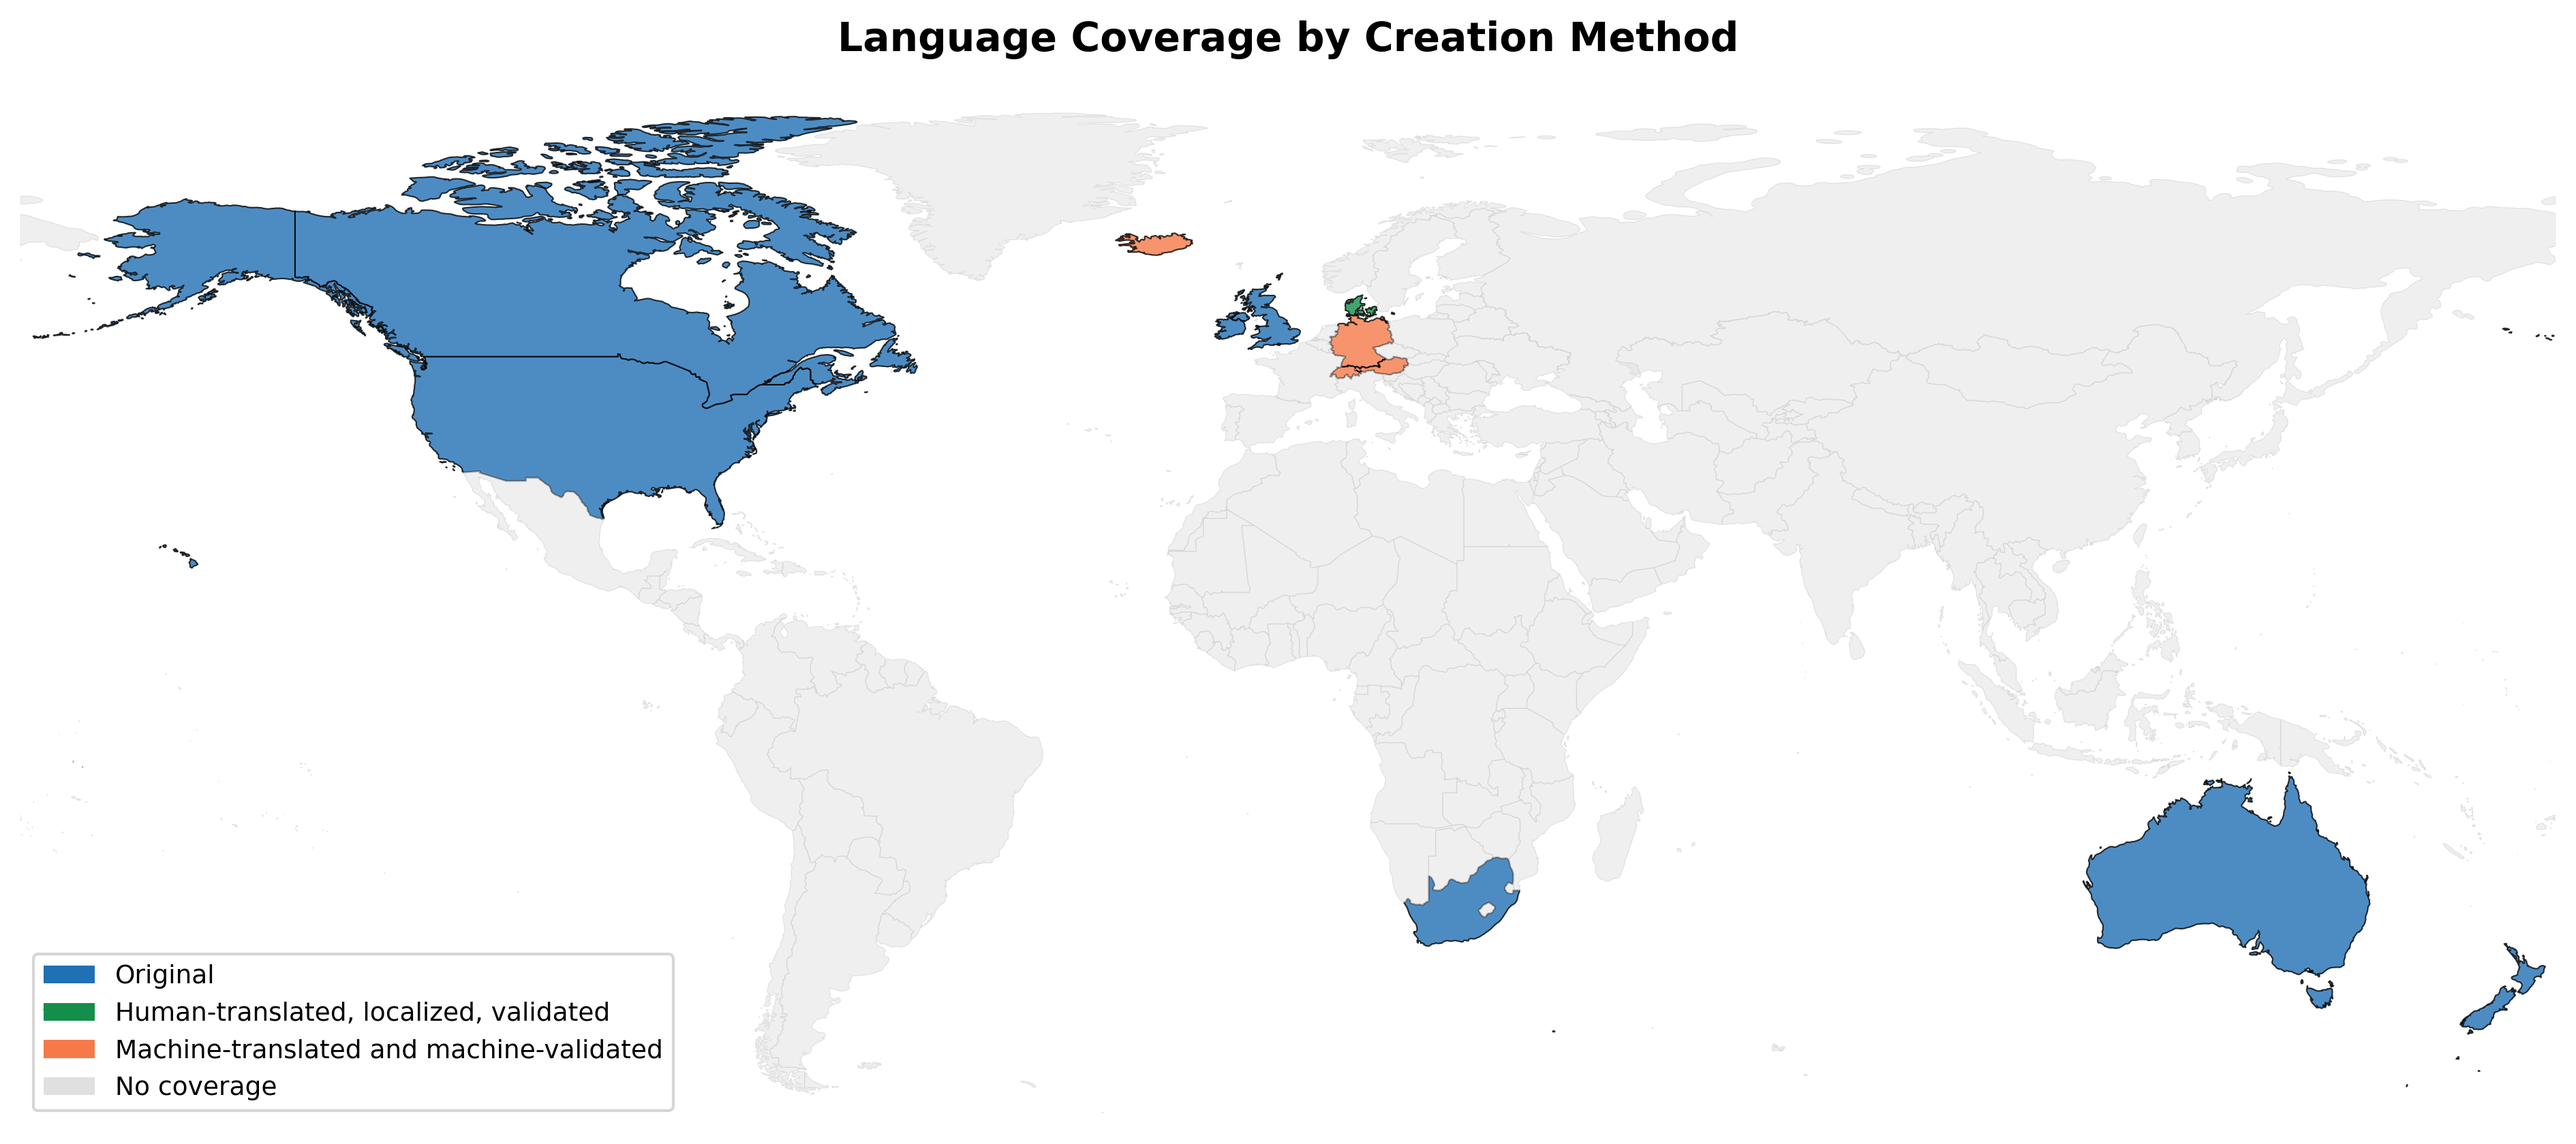
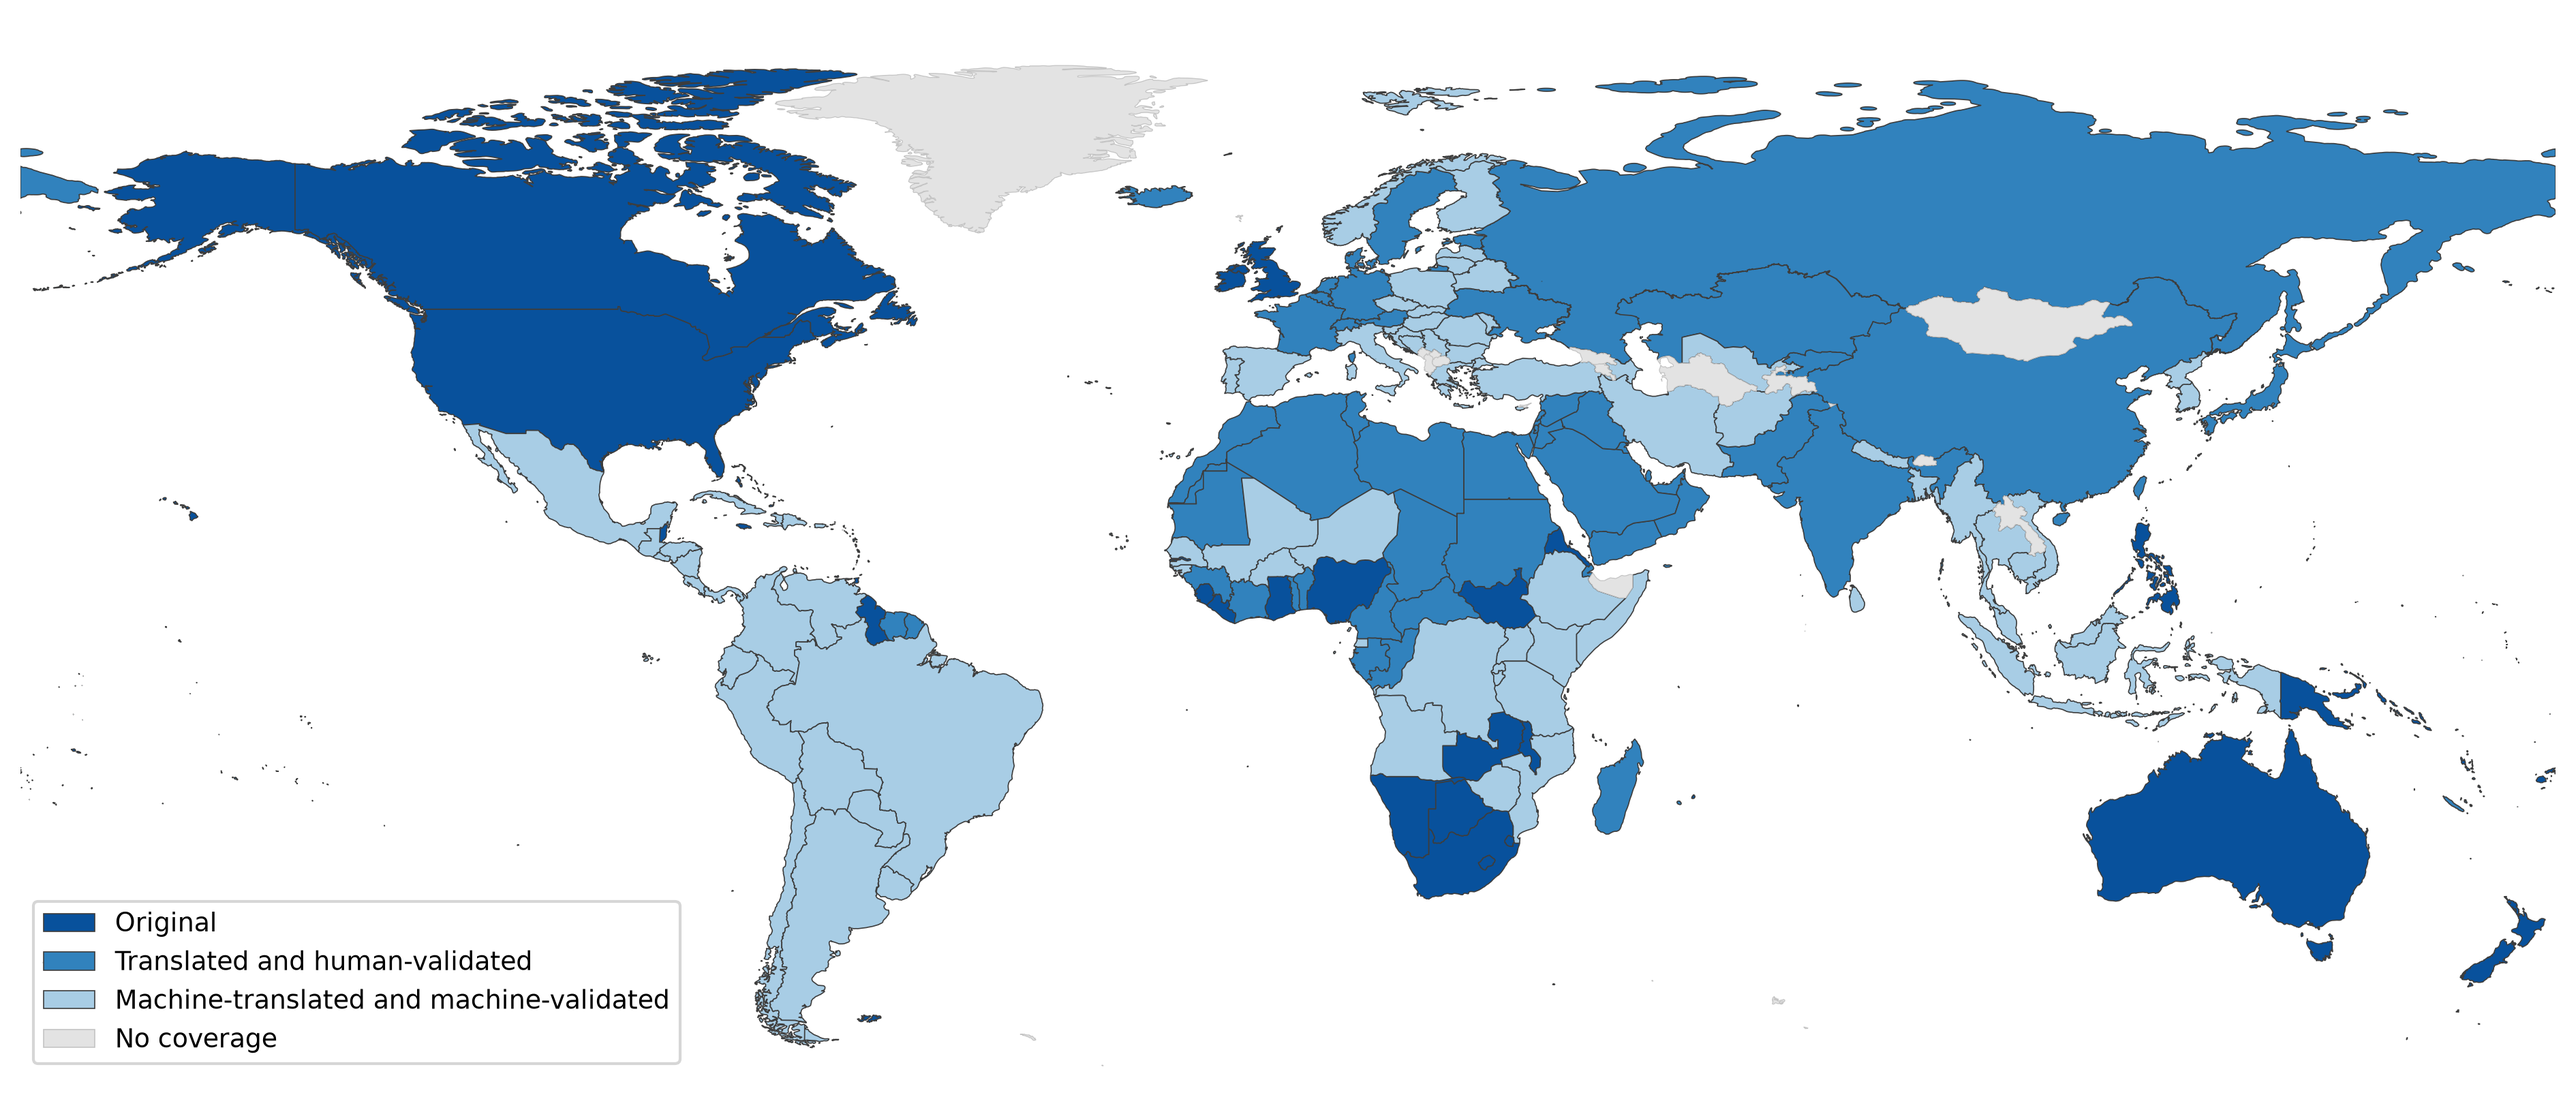
Update language coverage map

diff --git a/src/scripts/create_world_map.py b/src/scripts/create_world_map.py
@@ -23,16 +23,16 @@ than a hand-written list, so the map stays in sync as languages are added:
 """
 
 import json
+import re
 import tomllib
 import urllib.request
-from collections import defaultdict
+from collections import Counter, defaultdict
 from pathlib import Path
 
 import geopandas as gpd
 import matplotlib.pyplot as plt
 import pandas as pd
 import pycountry
-from matplotlib.colors import to_hex
 
 from multilingual_gsm_symbolic.load_data import available_languages
 
@@ -70,52 +70,68 @@ EXTRA_TERRITORIES = {
     "vjk": ["IN"],  # Bajjika
 }
 
-NO_COVERAGE_COLOR = "#E0E0E0"
+NO_COVERAGE_COLOR = "#E3E3E3"
+
+# Ordered quality ramp; see build_category_colors.
+METHOD_COLORS = {
+    "original": "#08519C",
+    "human_validated": "#3182BD",
+    "machine_translated": "#A8CDE5",
+}
 
 CATEGORY_LABELS = {
     "original": "Original",
-    "human_validated": "Human-translated, localized, validated",
+    "human_validated": "Translated and human-validated",
     "machine_translated": "Machine-translated and machine-validated",
 }
 
 
-def get_creation_method(lang: str, templates_dir: Path) -> str:
-    """Determine the creation method for a language based on its templates."""
-    lang_dir = templates_dir / lang / "symbolic"
-    if not lang_dir.exists():
-        return "none"
+# "validated by a native speaker", "human validated", "manually corrected by ..." etc.
+HUMAN_VALIDATED = re.compile(r"human|native speaker|fluent speaker|manually corrected", re.IGNORECASE)
 
-    first_template = sorted(lang_dir.glob("*.toml"))[0]
-    with first_template.open("rb") as f:
-        data = tomllib.load(f)
-    creation = data.get("creation", "")
 
+def classify_creation(creation: str) -> str:
+    """Classify a single template's `creation` string."""
     if "derived from GSM-Symbolic" in creation:
         return "original"
-    if "human" in creation.lower():
+    if HUMAN_VALIDATED.search(creation):
         return "human_validated"
     return "machine_translated"
 
 
-def build_category_colors(methods: list[str]) -> dict[str, str]:
-    """Assign colors from derived categories with an ordered quality palette.
+def get_creation_method(lang: str, templates_dir: Path) -> str:
+    """Determine the creation method for a language from its active templates.
 
-    Colors still come from the parsed creation categories, but are mapped so that:
-    - original = blue
-    - human_validated = green
-    - machine_translated = orange/red
+    Languages are mixed (e.g. Ukrainian has a couple of templates derived straight
+    from GSM-Symbolic among otherwise human-validated ones), so the language takes
+    the method of the majority of its templates rather than of the first one.
     """
-    colors: dict[str, str] = {}
-    present = set(methods)
+    lang_dir = templates_dir / lang / "symbolic"
+    if not lang_dir.exists():
+        return "none"
 
-    if "original" in present:
-        colors["original"] = to_hex(plt.get_cmap("Blues")(0.75))
-    if "human_validated" in present:
-        colors["human_validated"] = to_hex(plt.get_cmap("RdYlGn")(0.92))
-    if "machine_translated" in present:
-        colors["machine_translated"] = to_hex(plt.get_cmap("RdYlGn")(0.22))
+    methods = Counter()
+    for template in sorted(lang_dir.glob("*.toml")):
+        with template.open("rb") as f:
+            data = tomllib.load(f)
+        if data.get("ignore"):
+            continue
+        methods[classify_creation(data.get("creation", ""))] += 1
 
-    return colors
+    if not methods:
+        return "none"
+    return methods.most_common(1)[0][0]
+
+
+def build_category_colors(methods: list[str]) -> dict[str, str]:
+    """Assign colors from derived categories along an ordered quality ramp.
+
+    Colors still come from the parsed creation categories, but are mapped onto a
+    single-hue ramp so the map reads as a quality scale: no coverage (light grey)
+    -> machine-translated (light blue, deliberately closer to "no coverage") ->
+    human-validated -> original (two adjacent dark blues, close but distinct).
+    """
+    return {method: color for method, color in METHOD_COLORS.items() if method in set(methods)}
 
 
 def _load_cldr(name: str) -> dict:
@@ -252,9 +268,8 @@ def main() -> None:
             subset.plot(
                 ax=ax,
                 facecolor=color,
-                edgecolor="black",
-                linewidth=0.5,
-                alpha=0.8,
+                edgecolor="#3D3D3D",
+                linewidth=0.4,
             )
 
     rest_of_world = world[world["method"] == "none"]
@@ -262,9 +277,8 @@ def main() -> None:
         rest_of_world.plot(
             ax=ax,
             facecolor=NO_COVERAGE_COLOR,
-            edgecolor="#CCCCCC",
+            edgecolor="#C4C4C4",
             linewidth=0.3,
-            alpha=0.5,
         )
 
     ax.set_xlim(-180, 180)
@@ -280,10 +294,10 @@ def main() -> None:
 
     legend_elements = [
         *[
-            plt.Rectangle((0, 0), 1, 1, facecolor=color, label=CATEGORY_LABELS[method])
+            plt.Rectangle((0, 0), 1, 1, facecolor=color, edgecolor="#3D3D3D", linewidth=0.4, label=CATEGORY_LABELS[method])
             for method, color in category_colors.items()
         ],
-        plt.Rectangle((0, 0), 1, 1, facecolor=NO_COVERAGE_COLOR, label="No coverage"),
+        plt.Rectangle((0, 0), 1, 1, facecolor=NO_COVERAGE_COLOR, edgecolor="#C4C4C4", linewidth=0.4, label="No coverage"),
     ]
     ax.legend(handles=legend_elements, loc="lower left", frameon=True, fancybox=True, fontsize=9)
 
